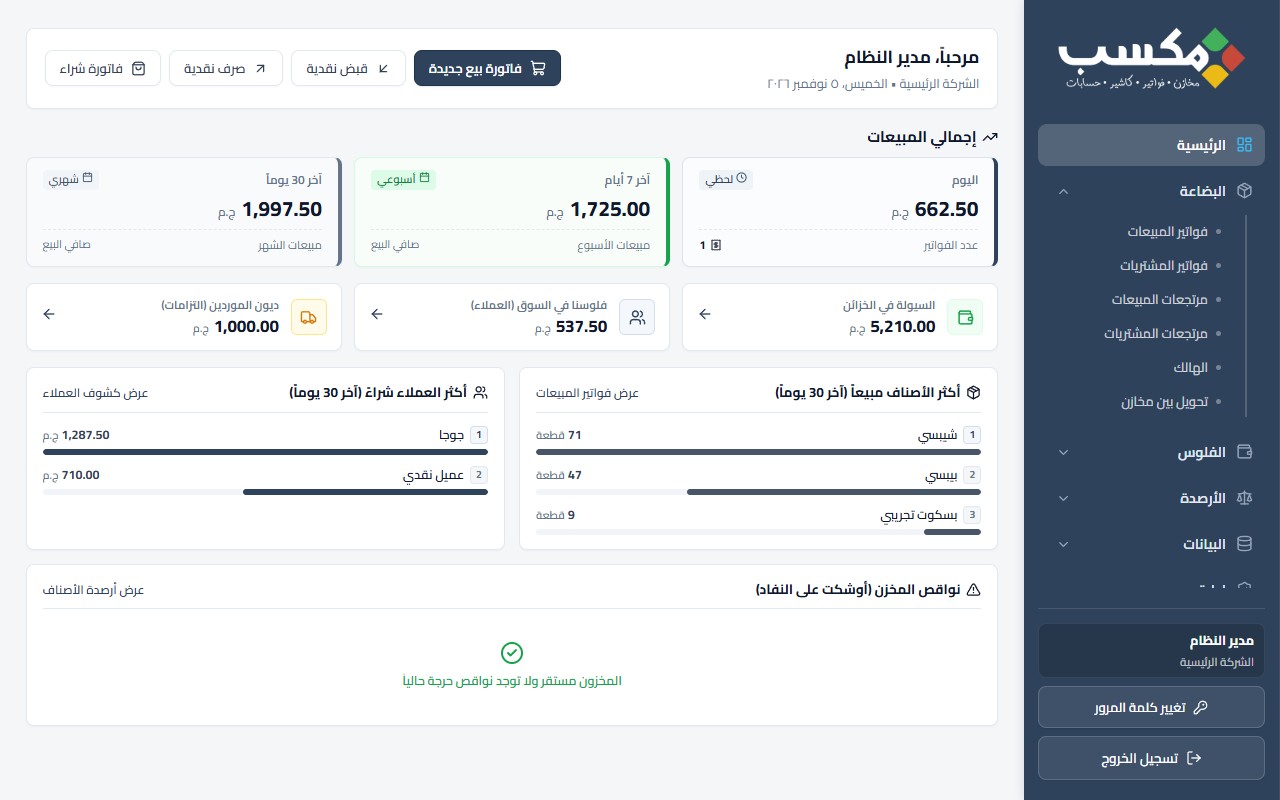
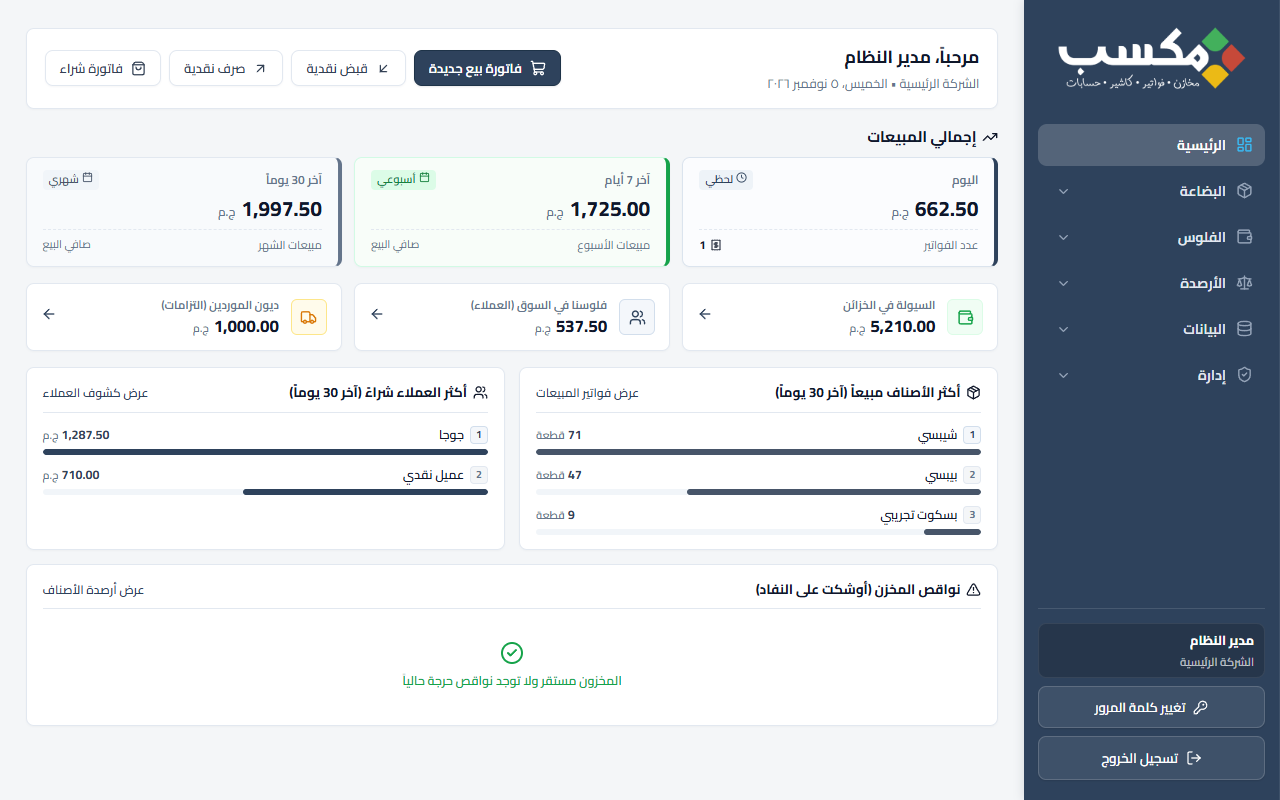
fix(nav): do not auto-open goods section when on home page

diff --git a/src/components/Layout.tsx b/src/components/Layout.tsx
@@ -27,14 +27,14 @@ function makeSingleOpen(section: NavSection | null): Record<NavSection, boolean>
 }
 
 function getStoredOpenSection(uid: string | null): NavSection | null {
-  if (!uid) return 'goods';
+  if (!uid) return null;
   try {
     const raw = localStorage.getItem(`maksab_active_nav_section_${uid}`);
     if (raw && ['goods', 'money', 'balances', 'data', 'management'].includes(raw)) {
       return raw as NavSection;
     }
   } catch {}
-  return 'goods';
+  return null;
 }
 
 function saveOpenSection(uid: string | null, section: NavSection | null) {
@@ -59,7 +59,7 @@ export default function Layout() {
   const [changePasswordOpen, setChangePasswordOpen] = useState(false);
   const [openSections, setOpenSections] = useState<Record<NavSection, boolean>>(() => {
     const current = getInitialSection(location.pathname);
-    return makeSingleOpen(current || 'goods');
+    return makeSingleOpen(current);
   });
 
   useEffect(() => {
@@ -90,7 +90,7 @@ export default function Layout() {
 
       const stored = getStoredOpenSection(user.id);
       const current = getInitialSection(location.pathname);
-      const active = current || stored || 'goods';
+      const active = location.pathname === '/' ? null : (current || stored);
       setOpenSections(makeSingleOpen(active));
     }
 
